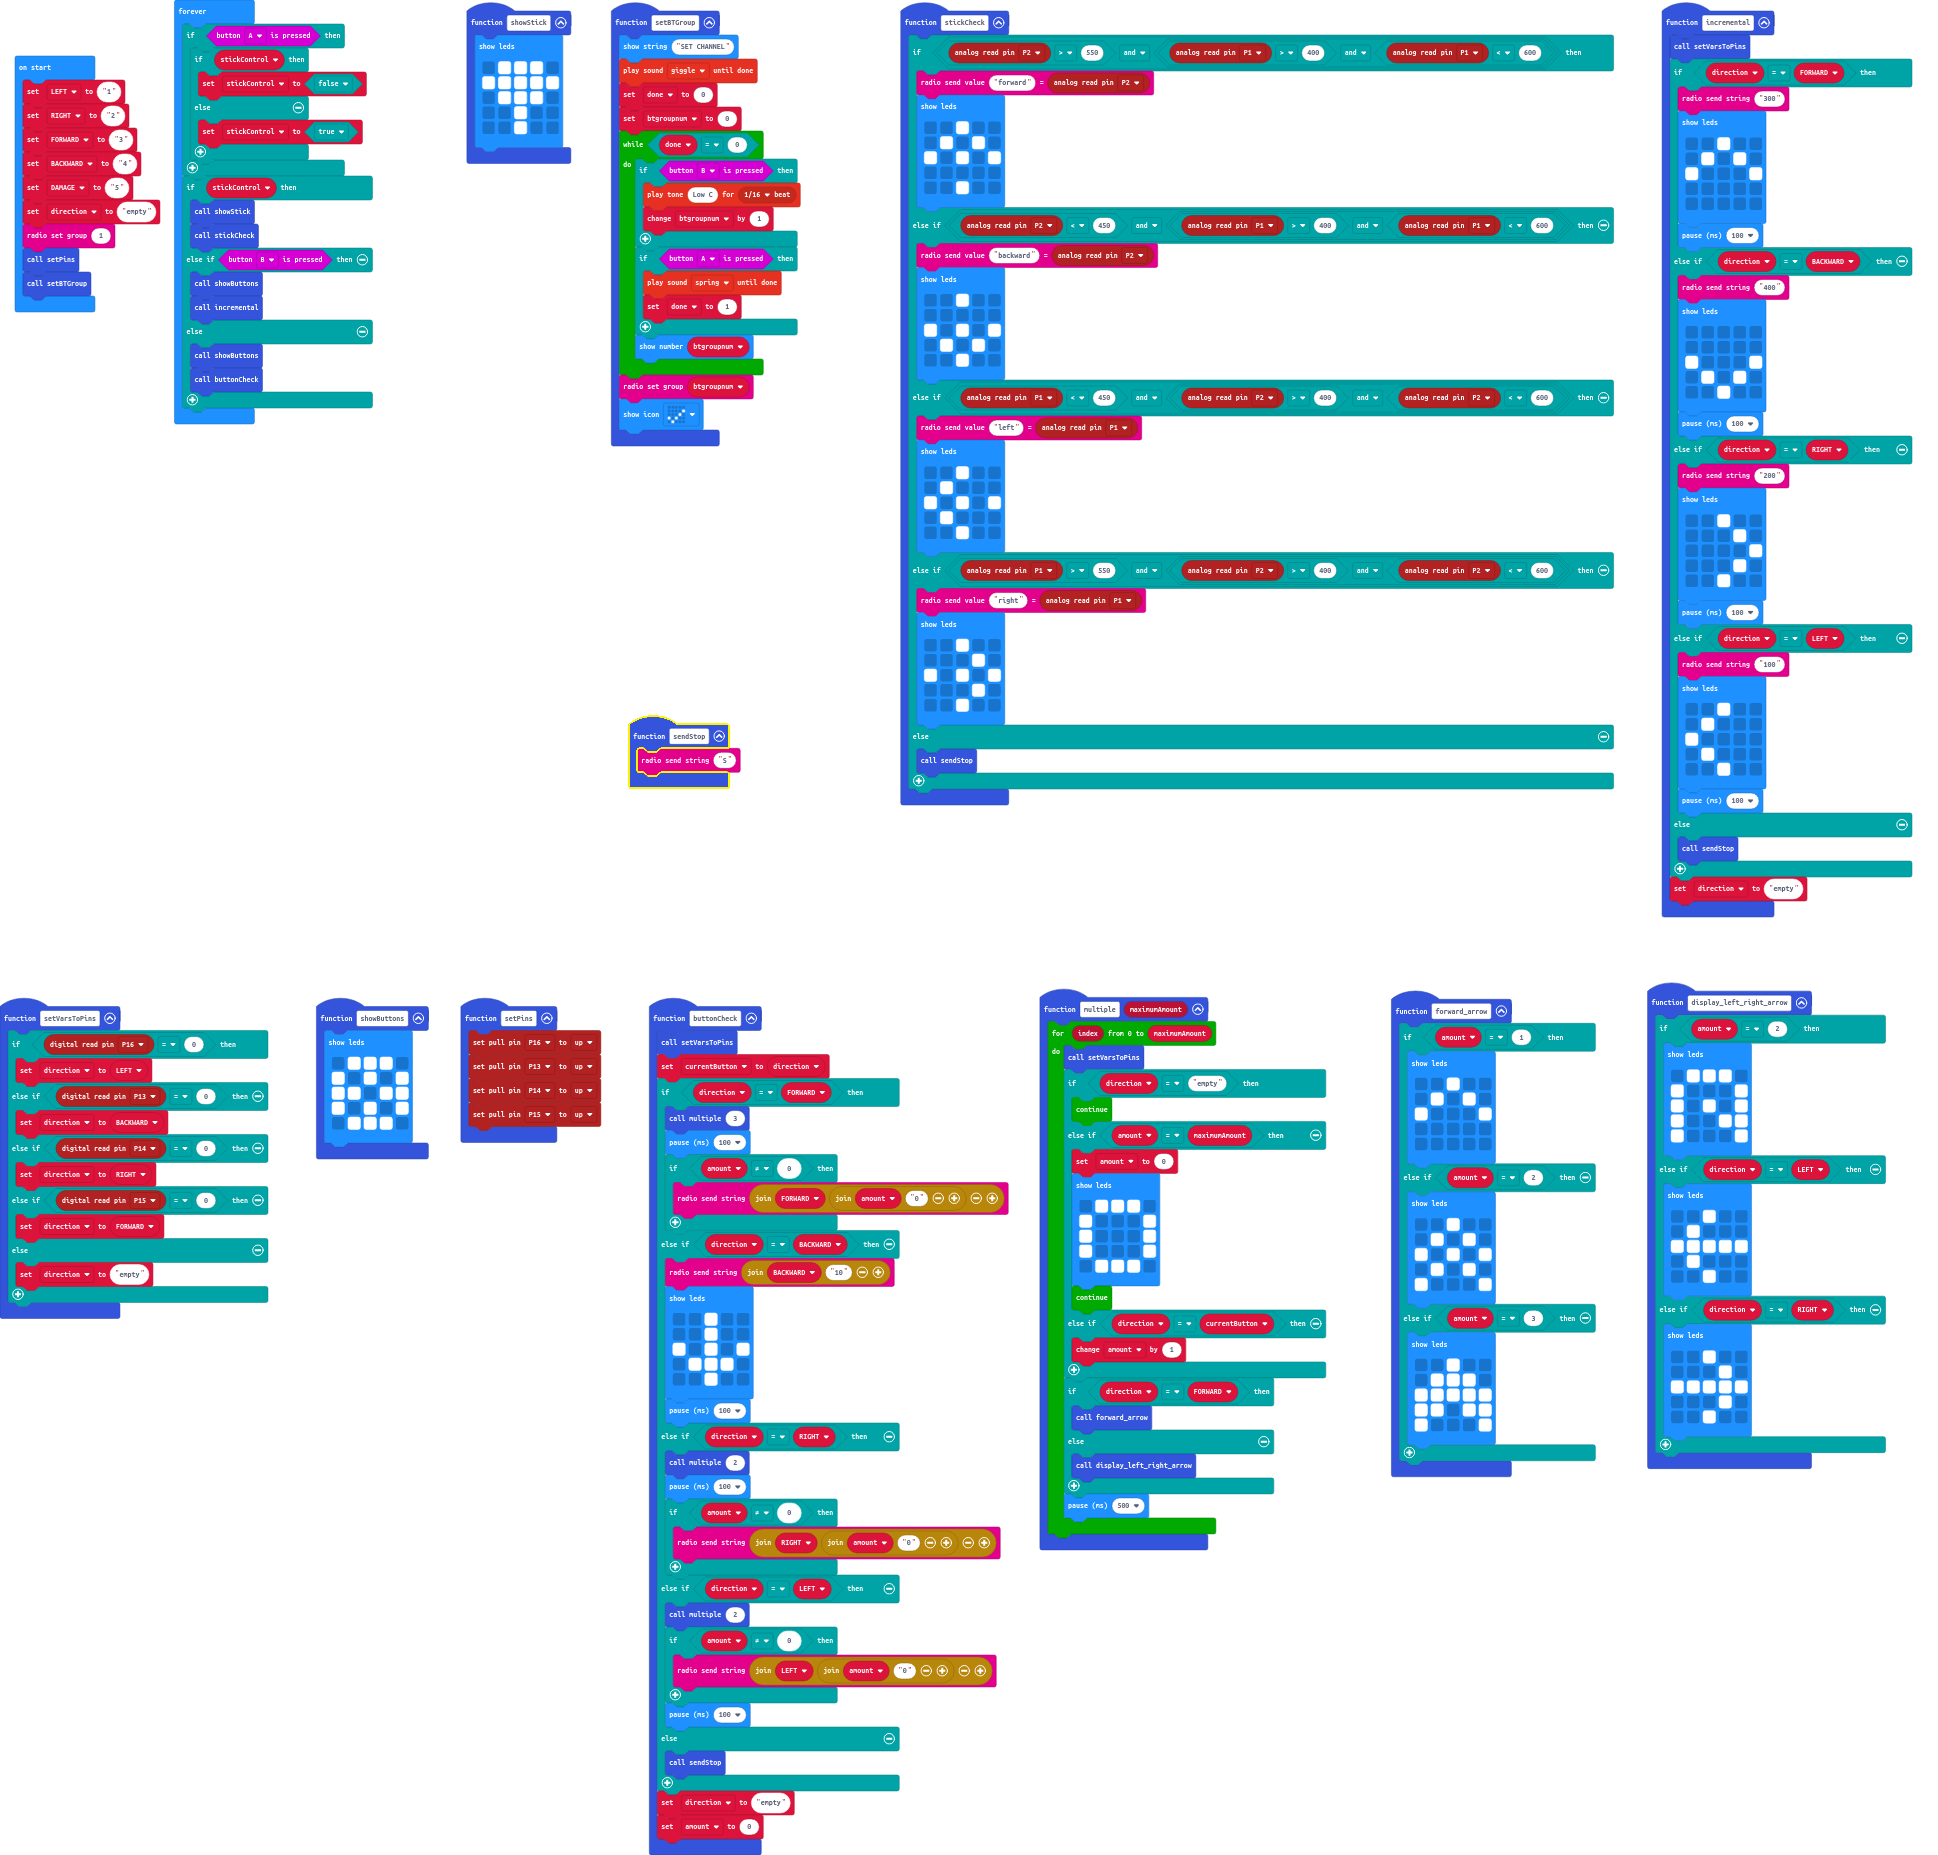
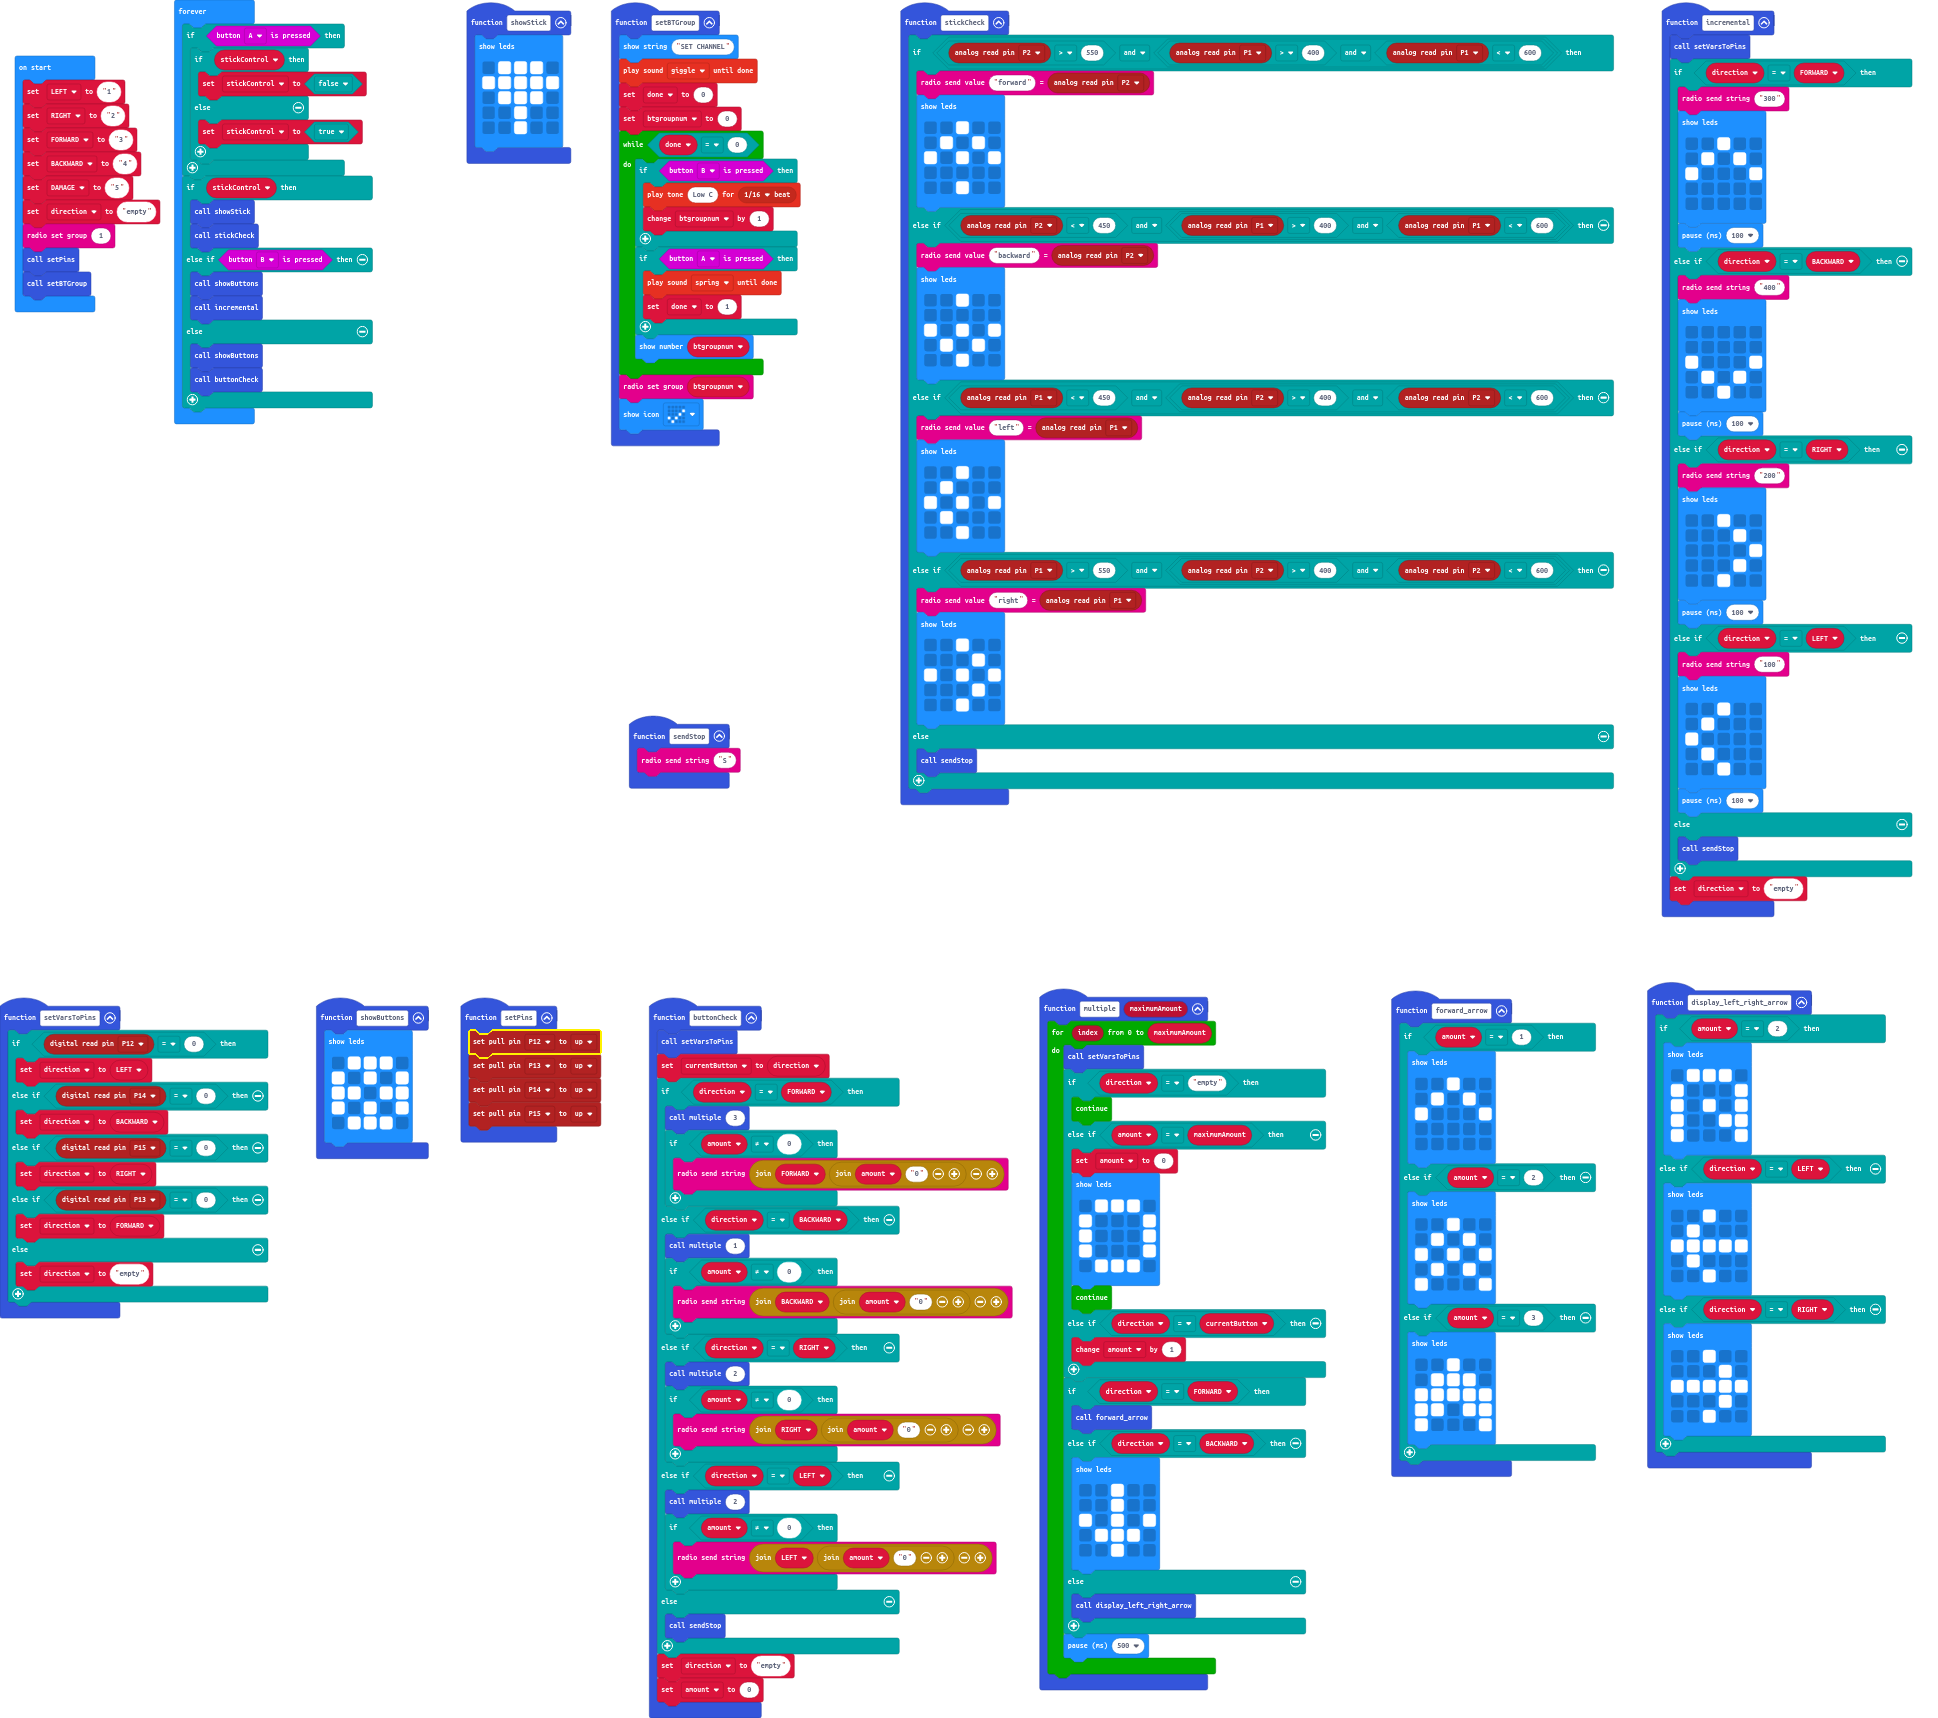
Update main.blocks, main.ts

diff --git a/main.ts b/main.ts
@@ -27,6 +27,14 @@ function multiple (maximumAmount: number) {
         }
         if (direction == FORWARD) {
             forward_arrow()
+        } else if (direction == BACKWARD) {
+            basic.showLeds(`
+                . . # . .
+                . . # . .
+                # . # . #
+                . # # # .
+                . . # . .
+                `)
         } else {
             display_left_right_arrow()
         }
@@ -144,13 +152,13 @@ function sendStop () {
     radio.sendString("S")
 }
 function setVarsToPins () {
-    if (pins.digitalReadPin(DigitalPin.P16) == 0) {
+    if (pins.digitalReadPin(DigitalPin.P12) == 0) {
         direction = LEFT
-    } else if (pins.digitalReadPin(DigitalPin.P13) == 0) {
-        direction = BACKWARD
     } else if (pins.digitalReadPin(DigitalPin.P14) == 0) {
-        direction = RIGHT
+        direction = BACKWARD
     } else if (pins.digitalReadPin(DigitalPin.P15) == 0) {
+        direction = RIGHT
+    } else if (pins.digitalReadPin(DigitalPin.P13) == 0) {
         direction = FORWARD
     } else {
         direction = "empty"
@@ -166,7 +174,7 @@ function showButtons () {
         `)
 }
 function setPins () {
-    pins.setPull(DigitalPin.P16, PinPullMode.PullUp)
+    pins.setPull(DigitalPin.P12, PinPullMode.PullUp)
     pins.setPull(DigitalPin.P13, PinPullMode.PullUp)
     pins.setPull(DigitalPin.P14, PinPullMode.PullUp)
     pins.setPull(DigitalPin.P15, PinPullMode.PullUp)
@@ -203,23 +211,16 @@ function buttonCheck () {
     currentButton = direction
     if (direction == FORWARD) {
         multiple(3)
-        basic.pause(100)
         if (amount != 0) {
             radio.sendString("" + FORWARD + ("" + amount + "0"))
         }
     } else if (direction == BACKWARD) {
-        radio.sendString("" + BACKWARD + "10")
-        basic.showLeds(`
-            . . # . .
-            . . # . .
-            # . # . #
-            . # # # .
-            . . # . .
-            `)
-        basic.pause(100)
+        multiple(1)
+        if (amount != 0) {
+            radio.sendString("" + BACKWARD + ("" + amount + "0"))
+        }
     } else if (direction == RIGHT) {
         multiple(2)
-        basic.pause(100)
         if (amount != 0) {
             radio.sendString("" + RIGHT + ("" + amount + "0"))
         }
@@ -228,7 +229,6 @@ function buttonCheck () {
         if (amount != 0) {
             radio.sendString("" + LEFT + ("" + amount + "0"))
         }
-        basic.pause(100)
     } else {
         sendStop()
     }
